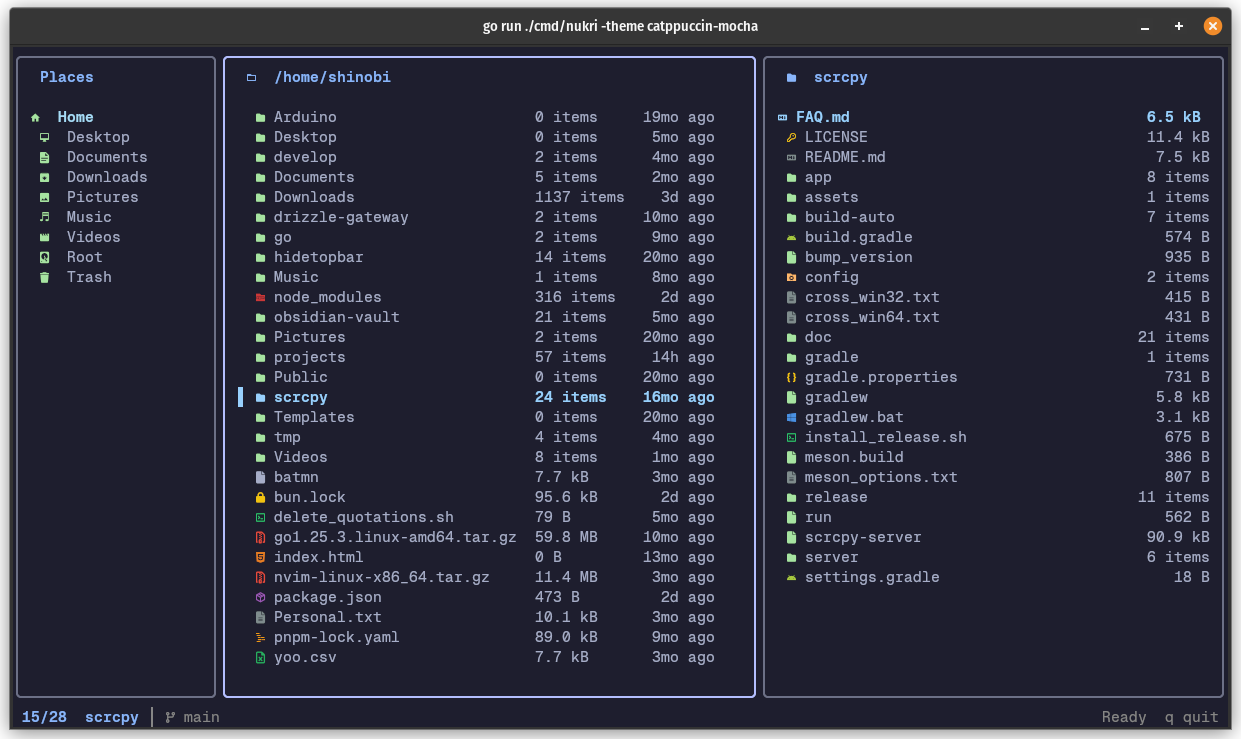
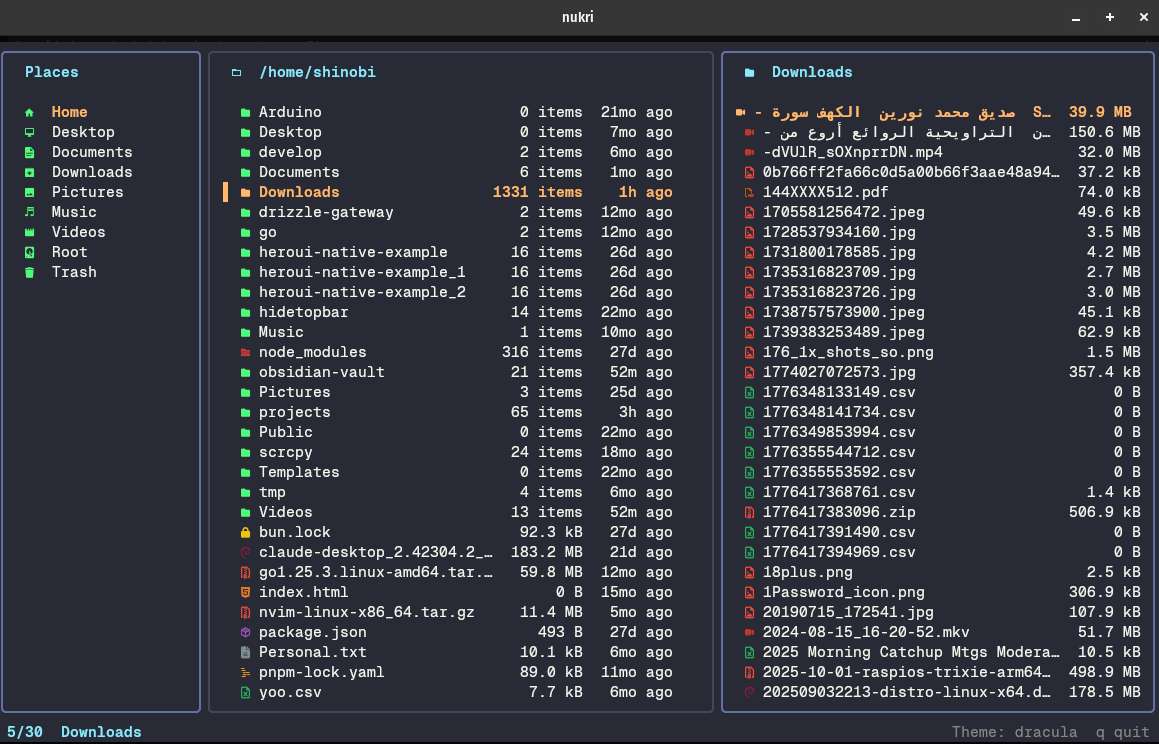
tidy the README and list nukri's features
Adds a feature list and install instructions after the demo image, which
is replaced with a current screenshot.

Changed region(s): [[0.0, 0.0, 1.0, 1.0]]

diff --git a/README.md b/README.md
@@ -1,11 +1,36 @@
 # Nukri
 
-A fast and elegant terminal file manager for linux written in Go. Currently a work in progress
+A fast terminal file manager for Linux, written in Go. Nukri is a work in progress.
 
-![alt text](demo.png)
+![Nukri with the Places sidebar, the file list of a home folder, and a preview of the selected folder](demo.png)
 
+## Features
 
+- **Three panes**: places and mounted devices, the file list, and a live preview. The
+  layout adapts to the terminal's size, and `P` hides the preview.
+- **Rich previews**: syntax-highlighted code, Markdown, CSV, images (kitty graphics or
+  sixel), video frames, audio waveforms, PDF pages, office documents, ebooks, fonts,
+  torrents, ISO images, and the contents of folders and archives.
+- **File operations**: mark several items, then copy, cut and paste, create, rename
+  inline or in your editor, trash and restore, or delete permanently.
+- **Archives**: create zip, tar and tar.gz archives, and extract them.
+- **Fuzzy find** across the current folder tree.
+- **Duplicate finder** that shows how much space you can reclaim.
+- **Drag and drop** in kitty 0.47+, in both directions, including over SSH.
+- **Open** files with their default app or a chosen one, and copy names or paths to the
+  clipboard.
+- **21 themes**, previewed live as you pick, plus your own.
+- **Mouse support**: click, double-click and scroll.
 
+## Install
+
+With Go installed:
+
+```bash
+go install github.com/urdadx/nukri/cmd/nukri@latest
+```
+
+This puts `nukri` in `~/go/bin`. Icons need a [Nerd Font](https://www.nerdfonts.com/).
 
 ## Keys
 
